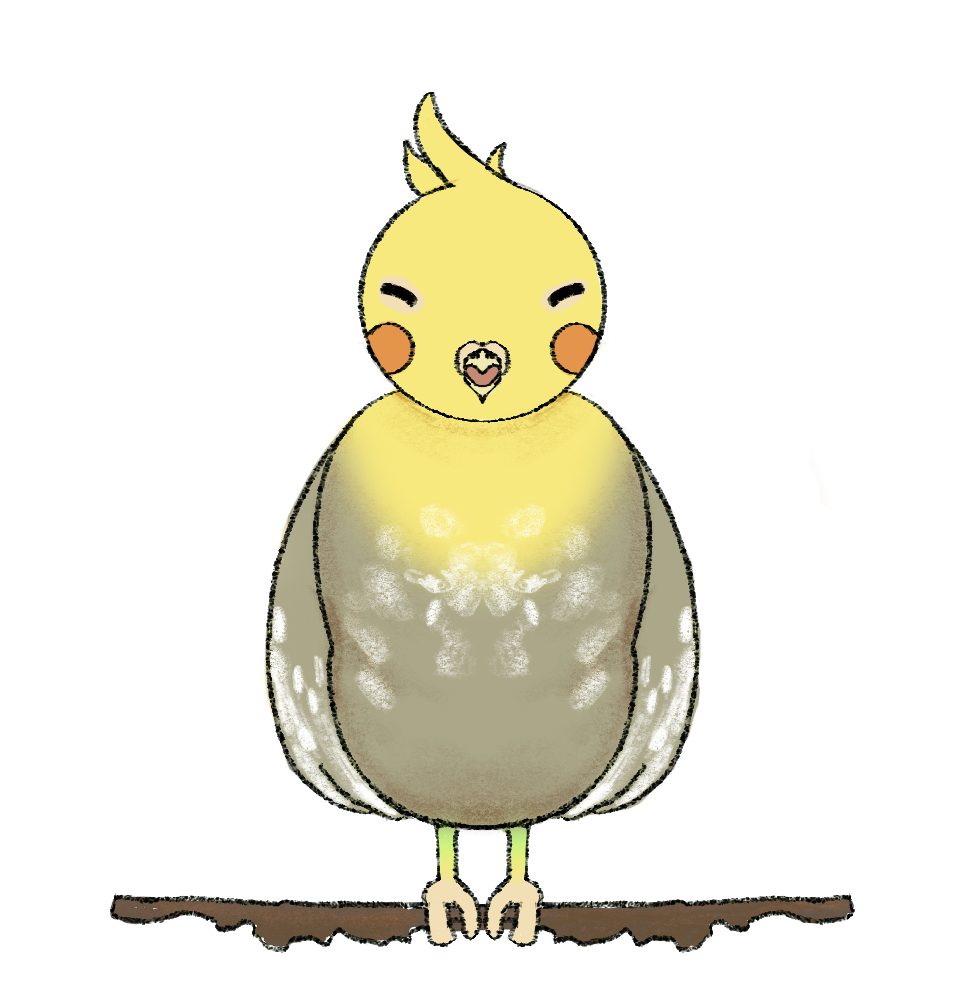
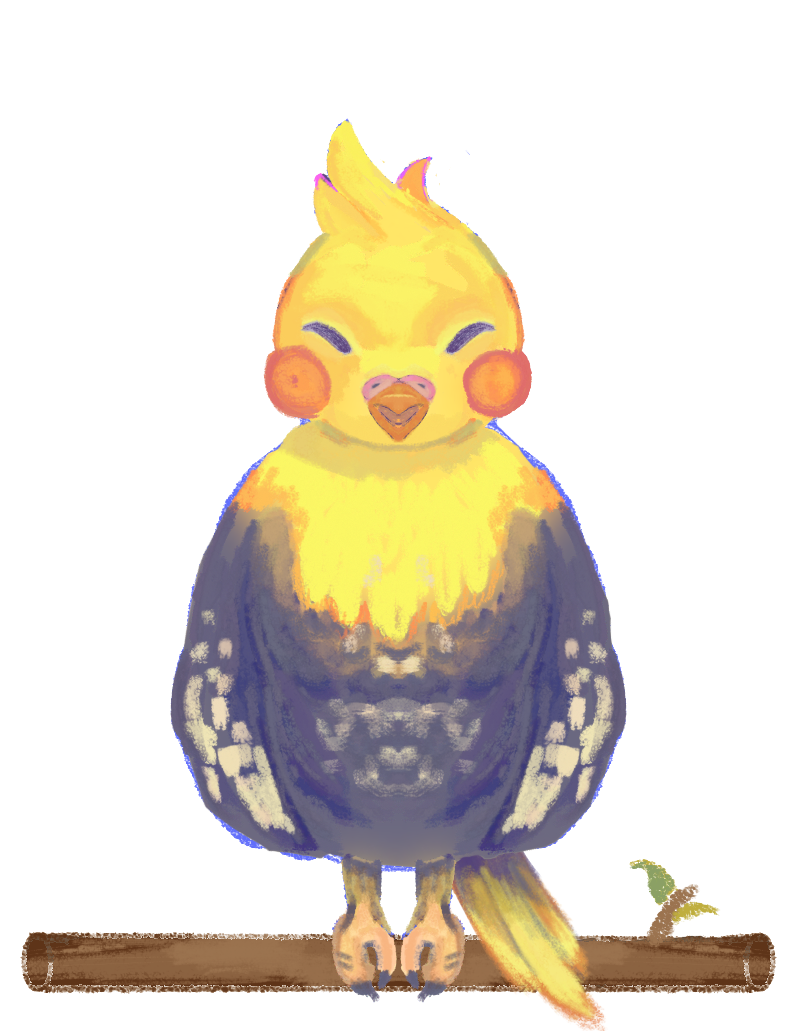
extra photos to switch out

diff --git a/src/styles.css b/src/styles.css
@@ -42,7 +42,7 @@
     z-index: 0; 
     background-repeat: no-repeat;
     background-position: center;
-    background-size: 450px;
+    background-size: 390px; /* make this 450px if you are using the other set of pics */
     -webkit-app-region: drag;
   }
 
@@ -145,7 +145,6 @@
     left: 0; right: 0; top: 334px;
     align-items: center;
     text-transform: uppercase;
-    background: transparent;
     border-color: transparent;
     color: var(--lcd);
   }
